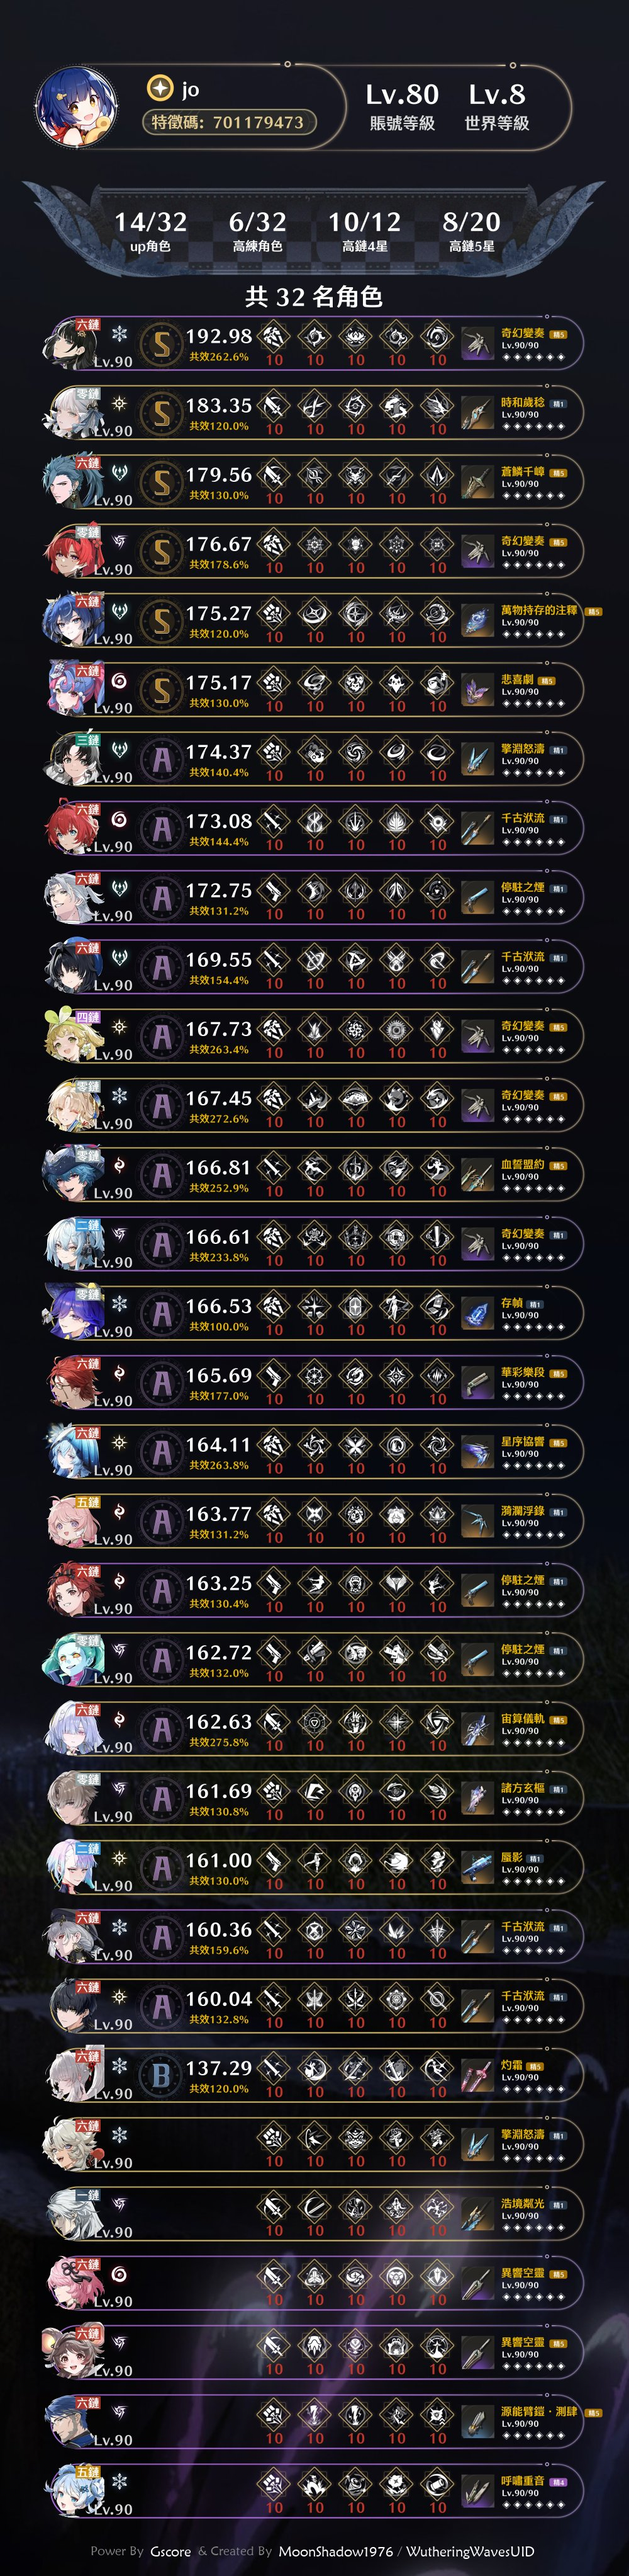
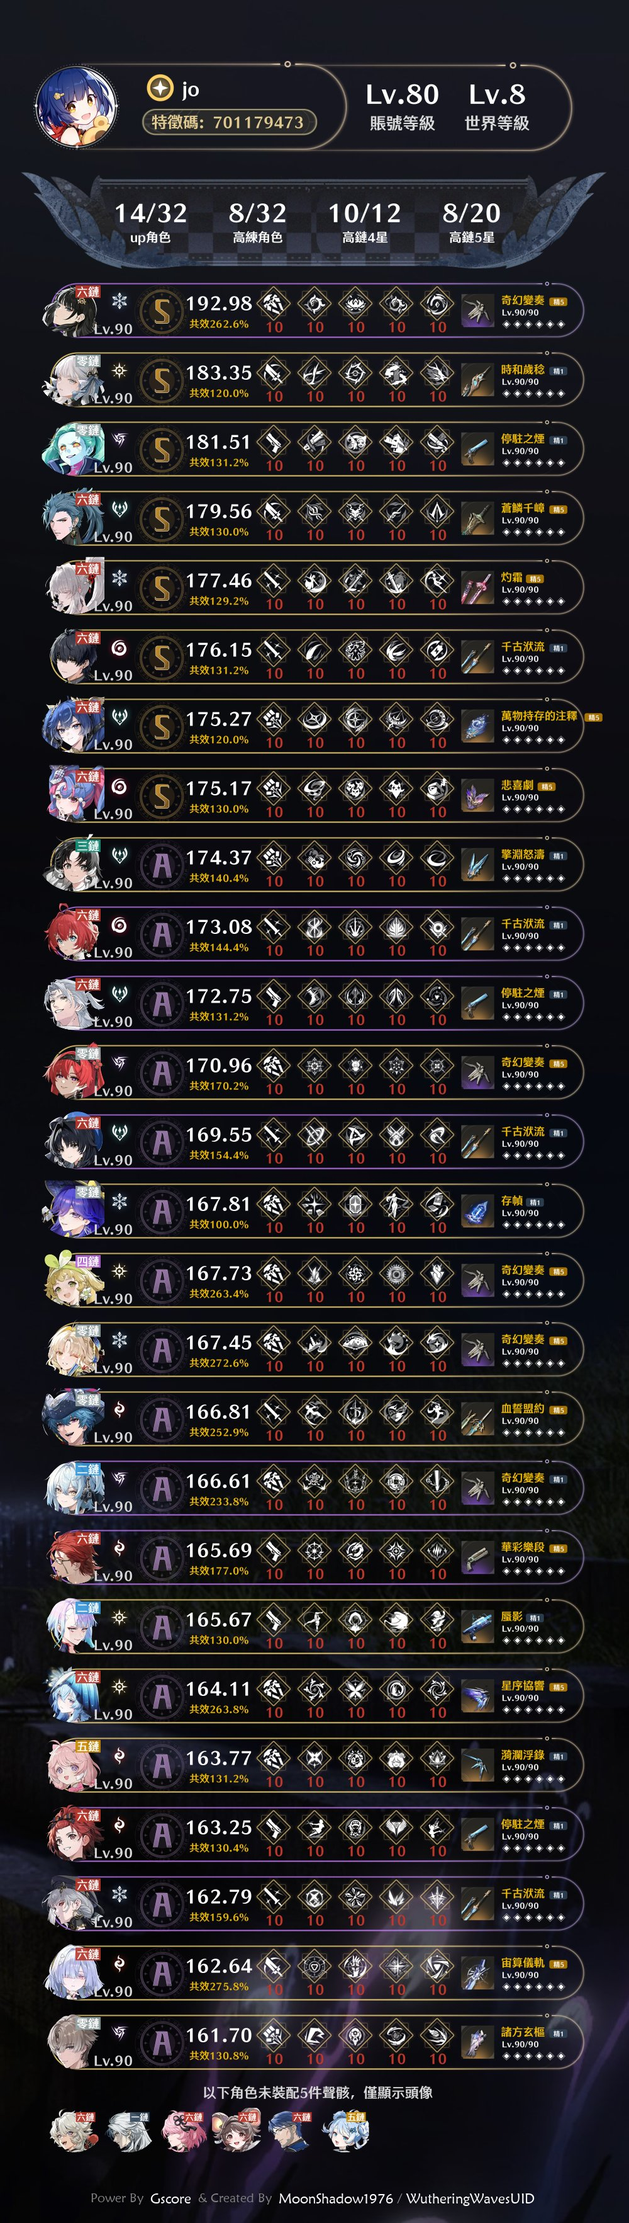
style(charlist): 统计框上移、去掉「共 N 名角色」；更新练度说明图

diff --git a/WutheringWavesUID/wutheringwaves_charlist/draw_char_list.py b/WutheringWavesUID/wutheringwaves_charlist/draw_char_list.py
@@ -213,7 +213,9 @@ async def draw_char_list_img(
             brief_list.append(_rank)
 
     avatar_h = 230
-    info_bg_h = 260
+    # 统计框（info_bg）相对 avatar_h 上移；avatar_h + info_bg_h 为首个详情行的 y
+    info_bg_y = avatar_h - 14
+    info_bg_h = 208
     bar_star_h = 110
     brief_h = 0
     if brief_list:
@@ -401,10 +403,7 @@ async def draw_char_list_img(
     info_bg_draw.text((750, 120), f"{chain_num_5}/{all_num_5}", "white", waves_font_40, "mm")
     info_bg_draw.text((750, 160), "高链5星", "white", waves_font_20, "mm")
 
-    char_info = f"共 {len(waves_char_rank)} 名角色"
-    info_bg_draw.text((500, 240), char_info, "white", waves_font_38, "mm")
-
-    card_img.paste(info_bg, (0, avatar_h), info_bg)
+    card_img.paste(info_bg, (0, info_bg_y), info_bg)
 
     card_img = add_footer(card_img)
     card_img = await convert_img(card_img)
